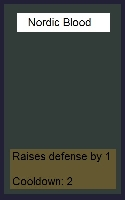
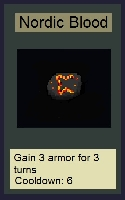
Nordic Blood art, two new cards, fixed critical strike

diff --git a/game/src/everything/cardPackage/SharpenBlade.java b/game/src/everything/cardPackage/SharpenBlade.java
@@ -6,12 +6,14 @@ import everything.statusPackage.CriticalStrike;
 /**
  * Created by Steve on 4/22/2017.
  */
-public class BSKeenEdge extends Card {
-    public BSKeenEdge(){
-        super("Blacksmith sharpens his weapon, granting critical strike for 3 turns.", "Keen Edge", "Utility", 0,0, false);
+public class SharpenBlade extends Card {
+    public SharpenBlade(){
+        super("Sharpen your blade granting critical strike (double damage) on your next attack within 3 turns", "Sharpen Blade", "Utility", 5,0, false);
     }
 
     public void cardFunction(Player p1, Player p2) {
         p1.addStatus(new CriticalStrike(p1, 3, p2));
     }
 }
+
+

diff --git a/game/src/everything/cardPackage/EagleEye.java b/game/src/everything/cardPackage/EagleEye.java
@@ -1,0 +1,18 @@
+package everything.cardPackage;
+
+import everything.Player;
+import everything.statusPackage.TrueDamage;
+
+/**
+ * Created by Steve on 4/22/2017.
+ */
+public class EagleEye  extends Card{
+    public EagleEye(){
+        super("Focus your ability, making all of your strikes hit for true damage for 3 turns (ignores armor).", "Eagle Eye", "Utility", 5,0, false);
+    }
+
+    public void cardFunction(Player p1, Player p2) {
+        p2.addStatus(new TrueDamage(p1, 3, p2));
+    }
+}
+
